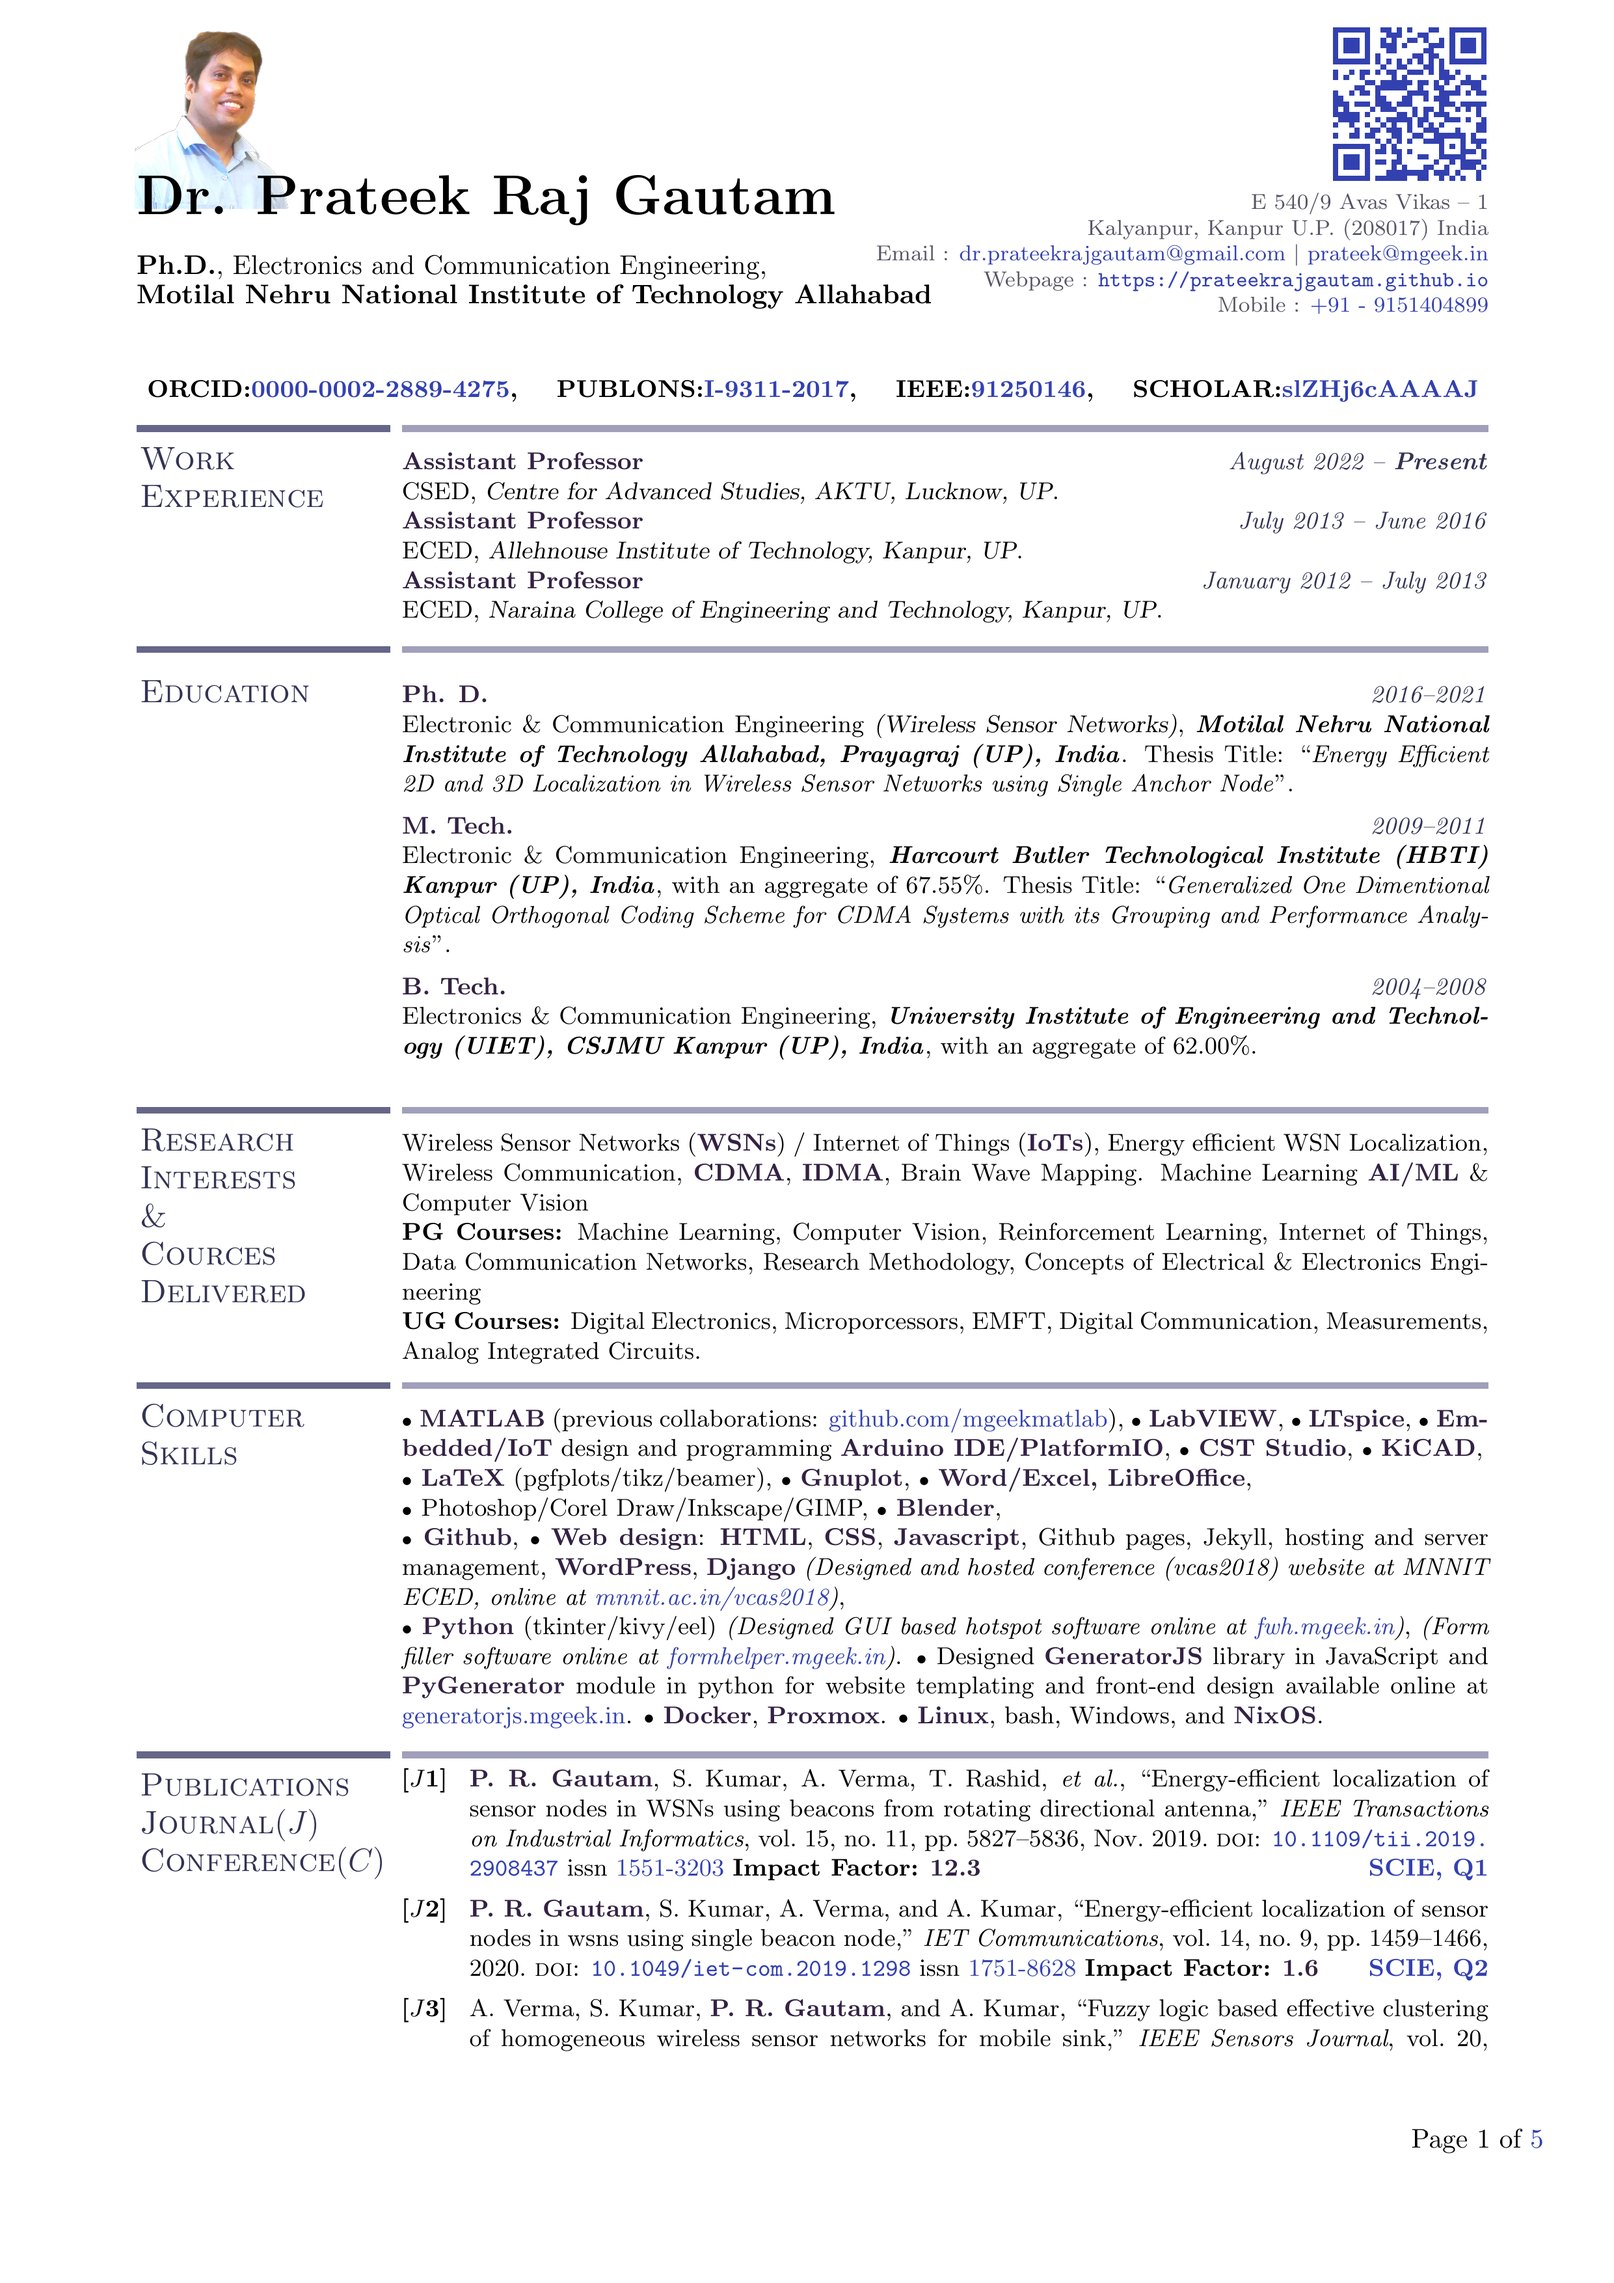
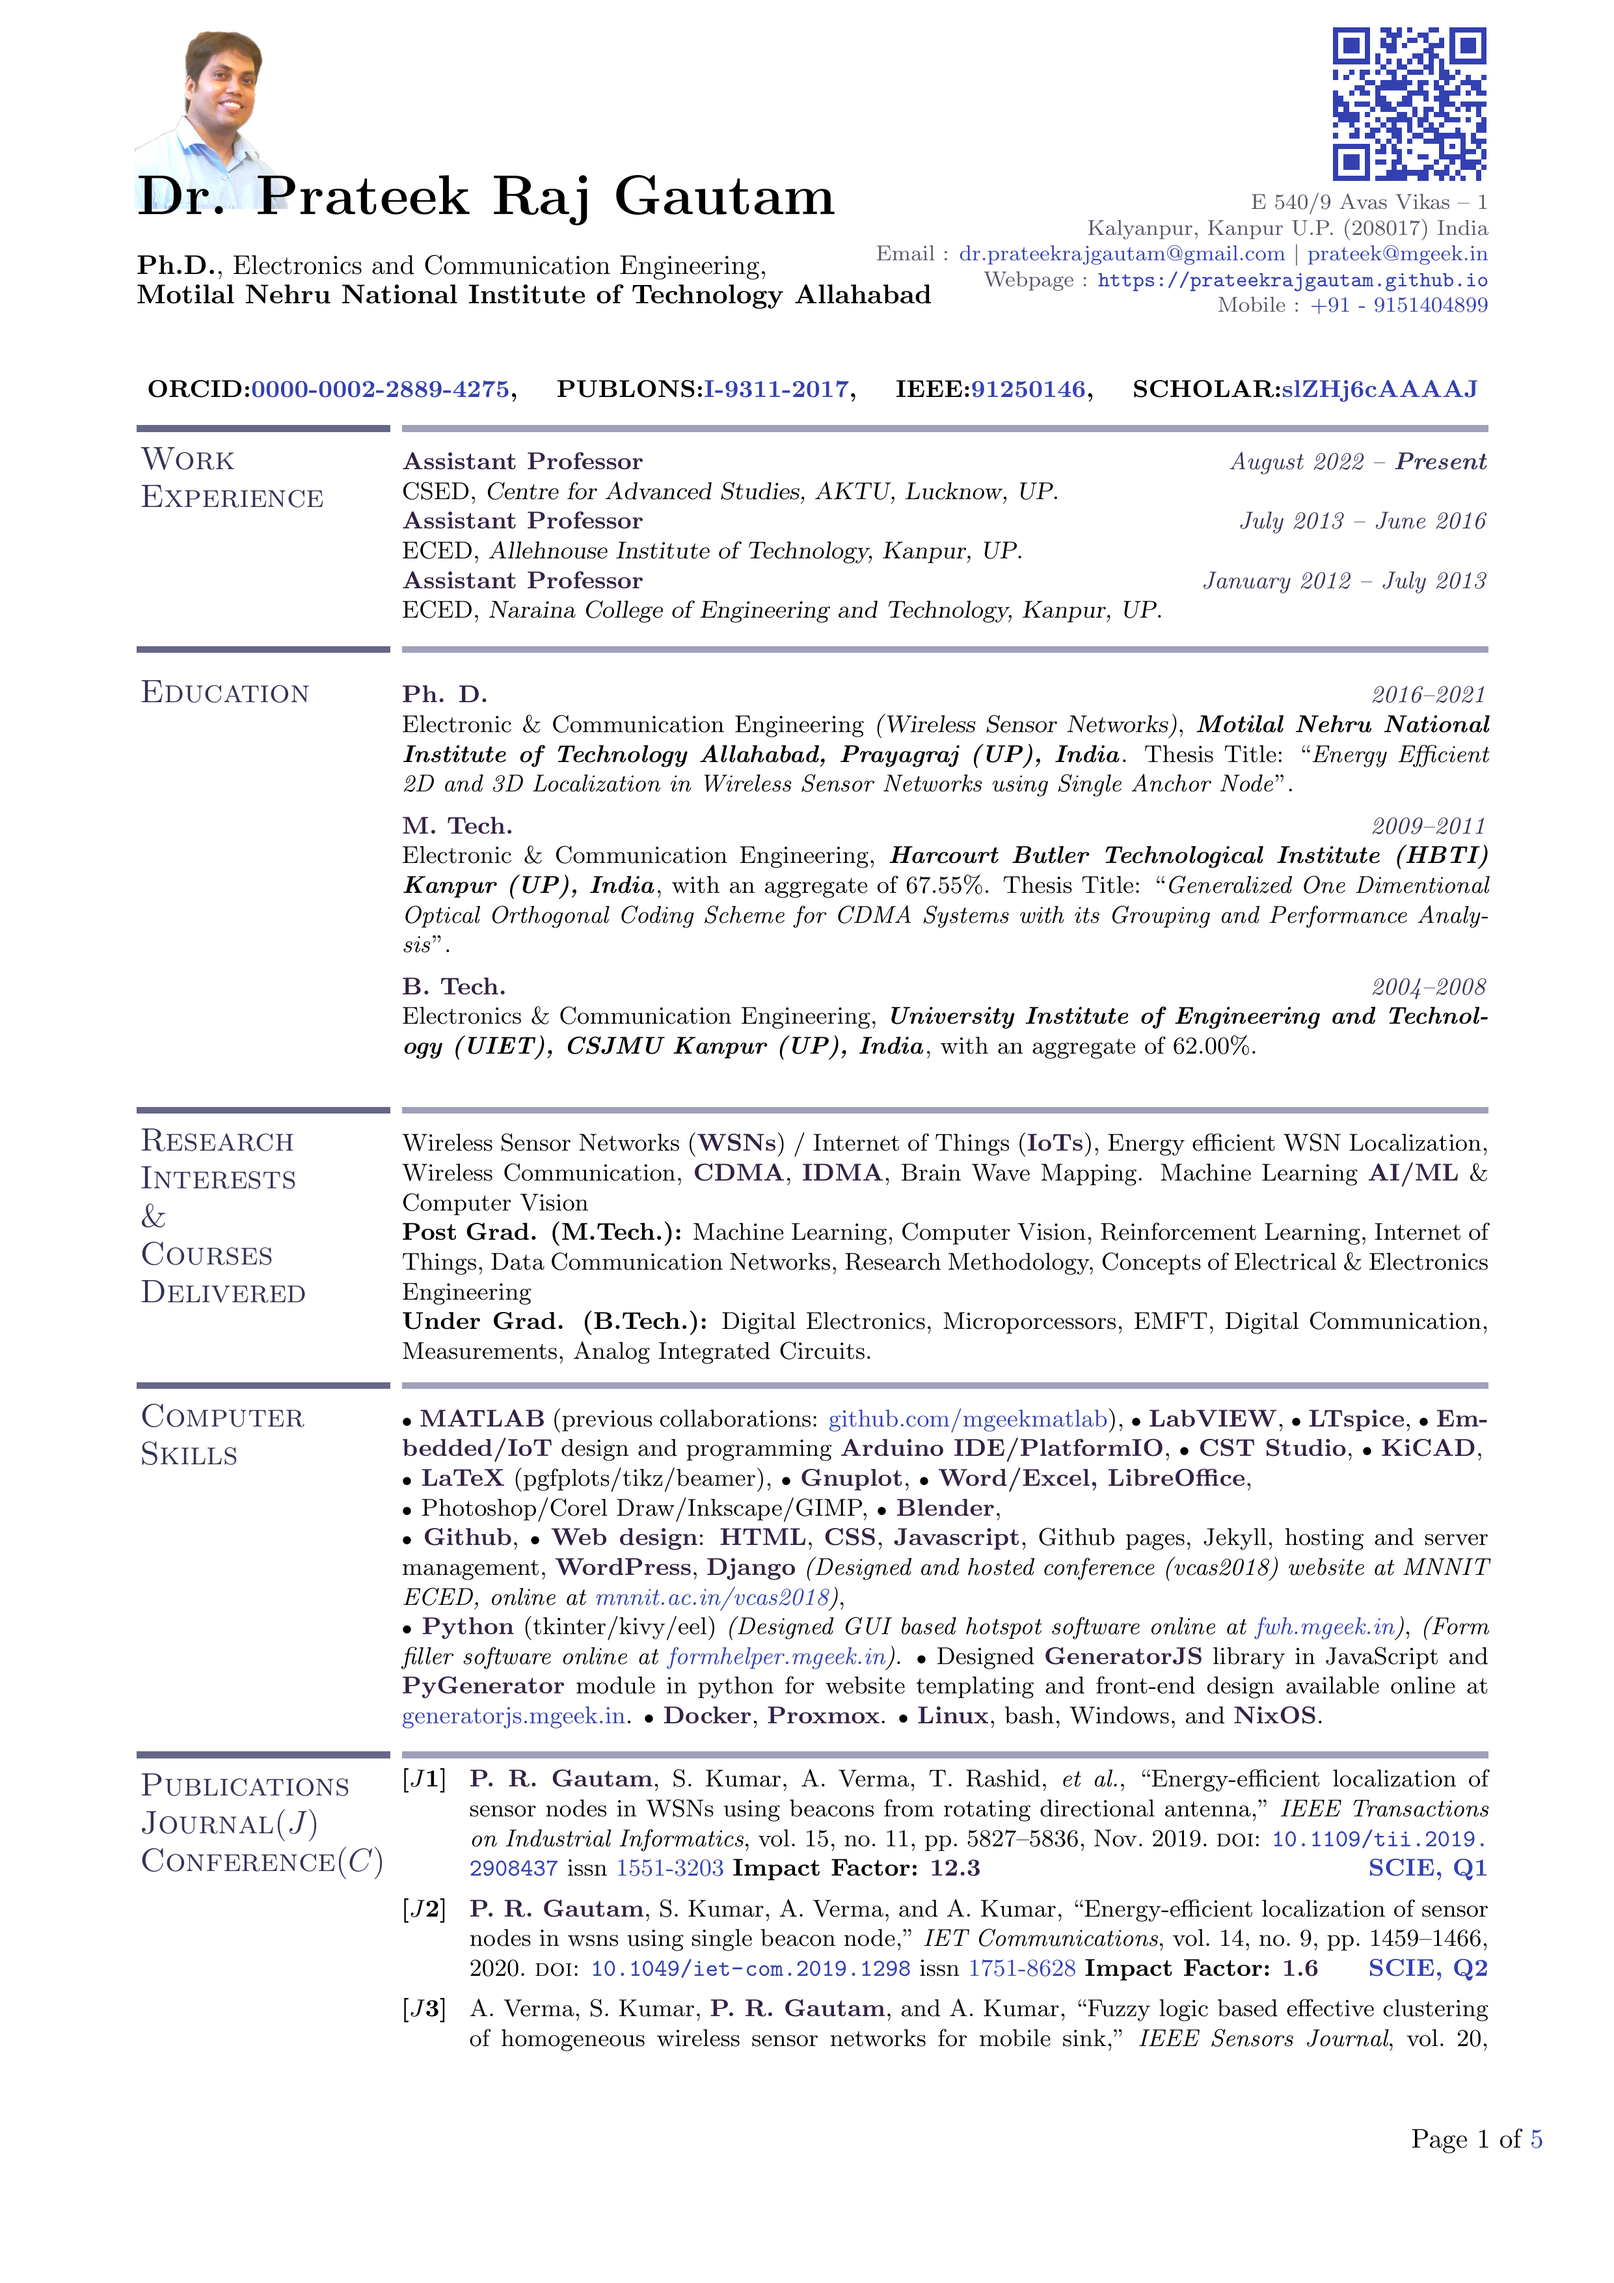
spell check

Changed region(s): [[0.2483, 0.5282, 0.9311, 0.6214]]

diff --git a/work_folder/includes/part/ResearchInterest.tex b/work_folder/includes/part/ResearchInterest.tex
@@ -3,10 +3,10 @@
 %	RESEARCH SECTION and SUBJECTS
 %-------------------------------------------------------------------------------
 \vspace{-2.5em}
-{\section{Research\\Interests\\\&\\Cources\\Delivered}
+{\section{Research\\Interests\\\&\\Courses\\Delivered}
 Wireless Sensor Networks (\cusemph{WSNs}) / Internet of Things (\cusemph{IoTs}), Energy efficient WSN Localization, Wireless Communication, \cusemph{CDMA}, \cusemph{IDMA}, Brain Wave Mapping. Machine Learning \cusemph{AI/ML} \& Computer Vision\\ 
-\textbf{PG Courses:} Machine Learning, Computer Vision, Reinforcement Learning, Internet of Things, Data Communication Networks, Research Methodology, Concepts of Electrical \& Electronics Engineering\\
-\textbf{UG Courses:} Digital Electronics, Microporcessors, EMFT, Digital Communication, Measurements, Analog Integrated Circuits.
+\textbf{Post Grad. (M.Tech.):} Machine Learning, Computer Vision, Reinforcement Learning, Internet of Things, Data Communication Networks, Research Methodology, Concepts of Electrical \& Electronics Engineering\\
+\textbf{Under Grad. (B.Tech.):} Digital Electronics, Microporcessors, EMFT, Digital Communication, Measurements, Analog Integrated Circuits.
 %\vspace{-1em}
 \sectionline
 }
